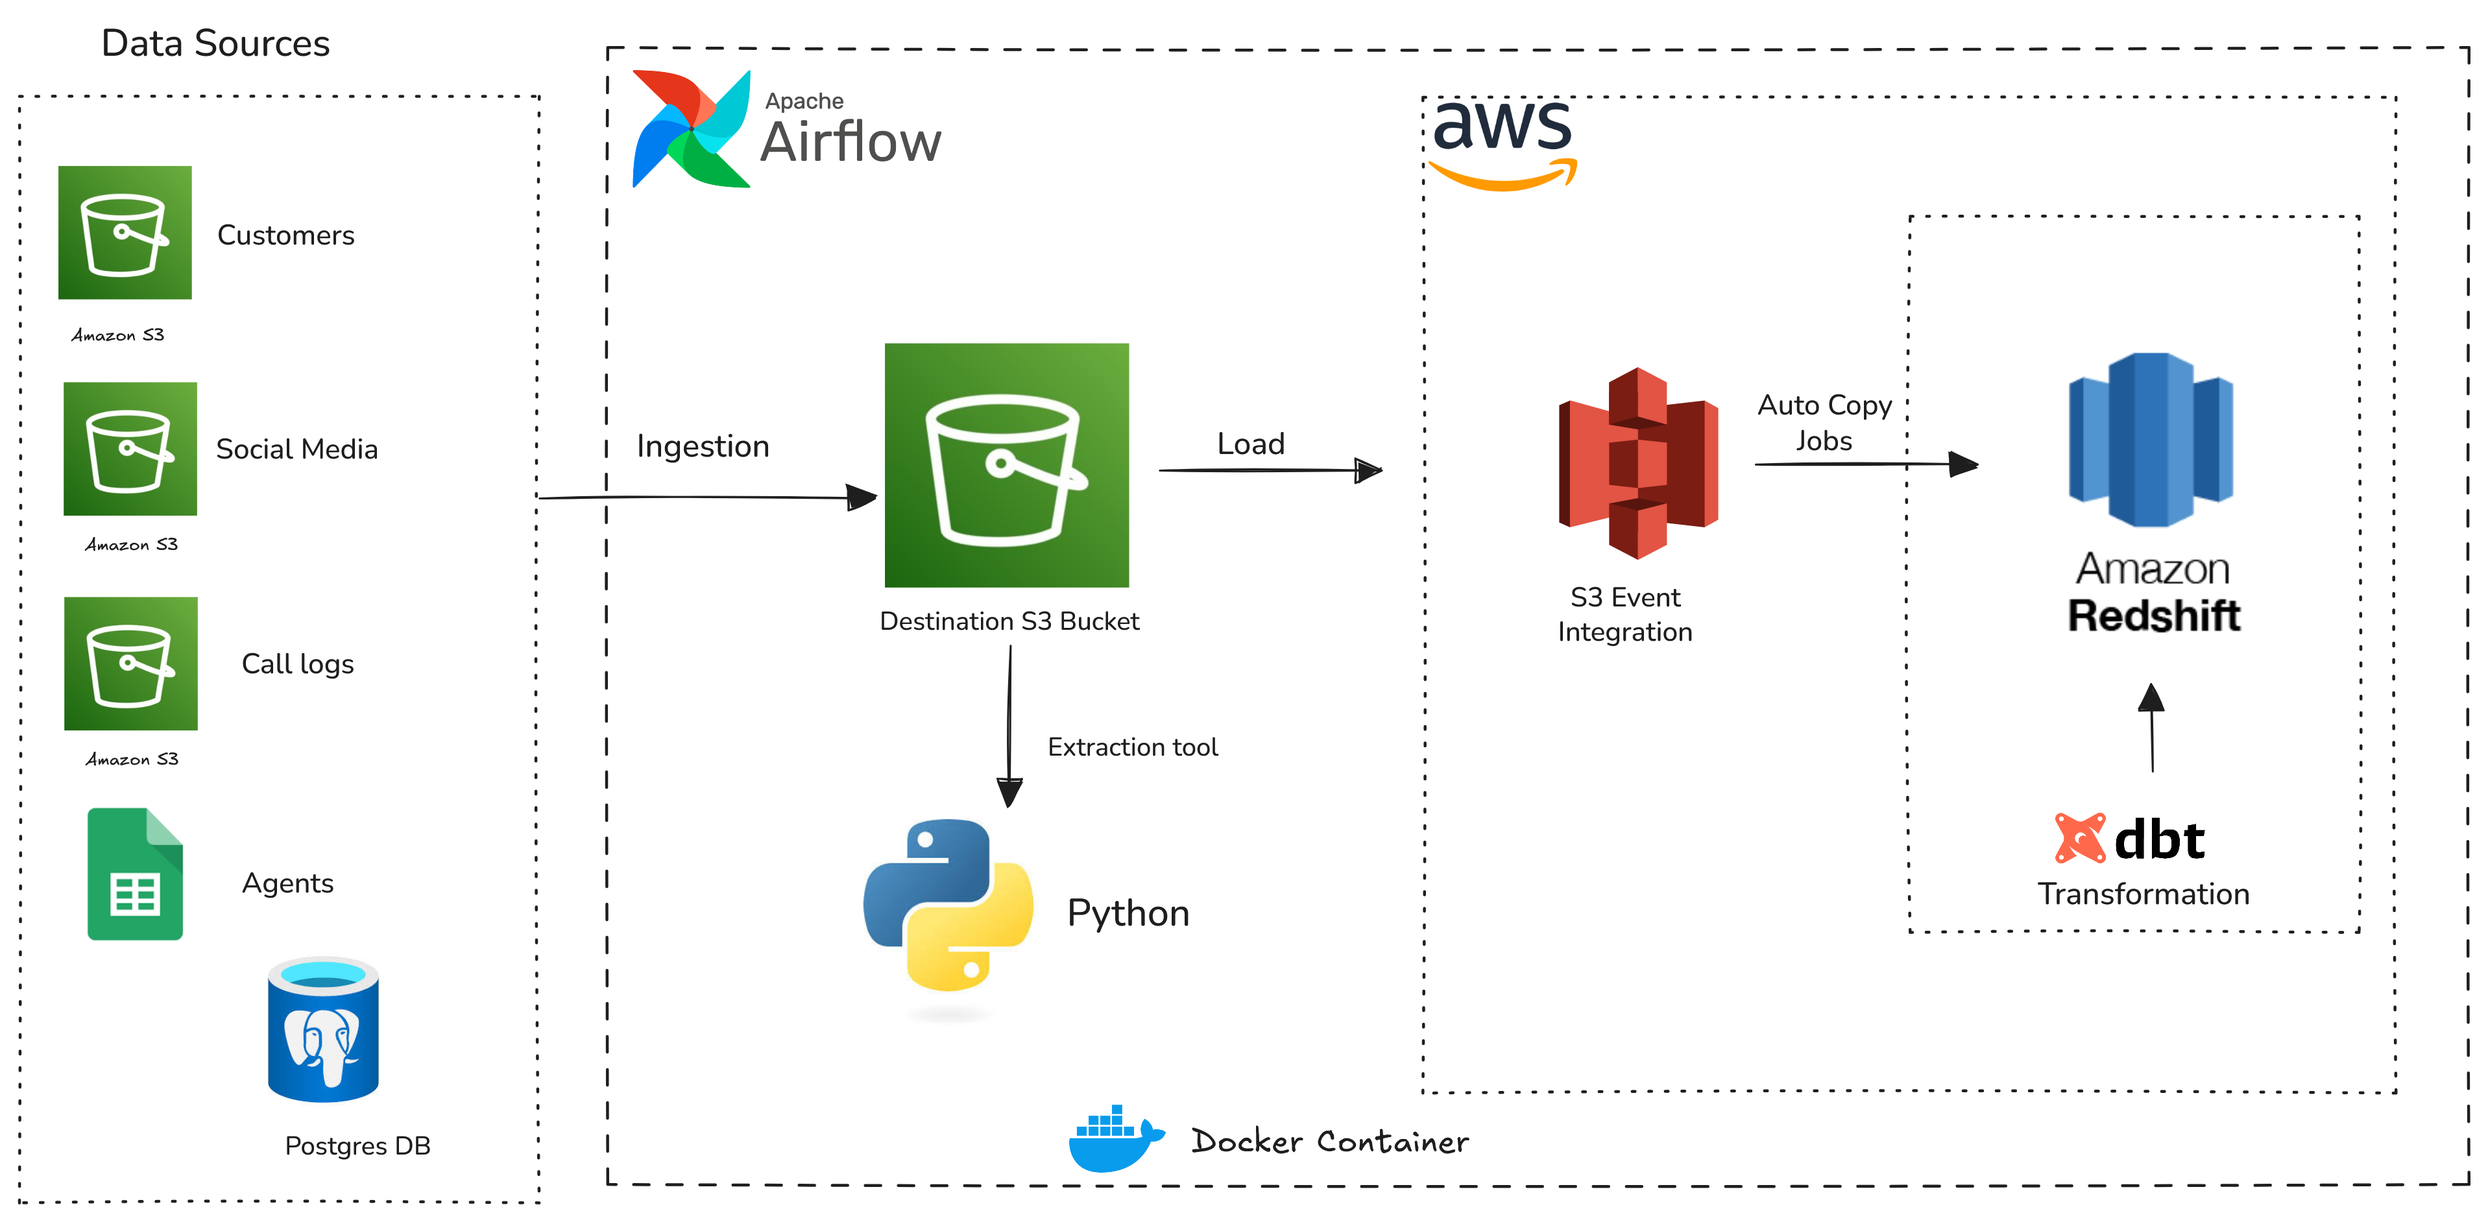
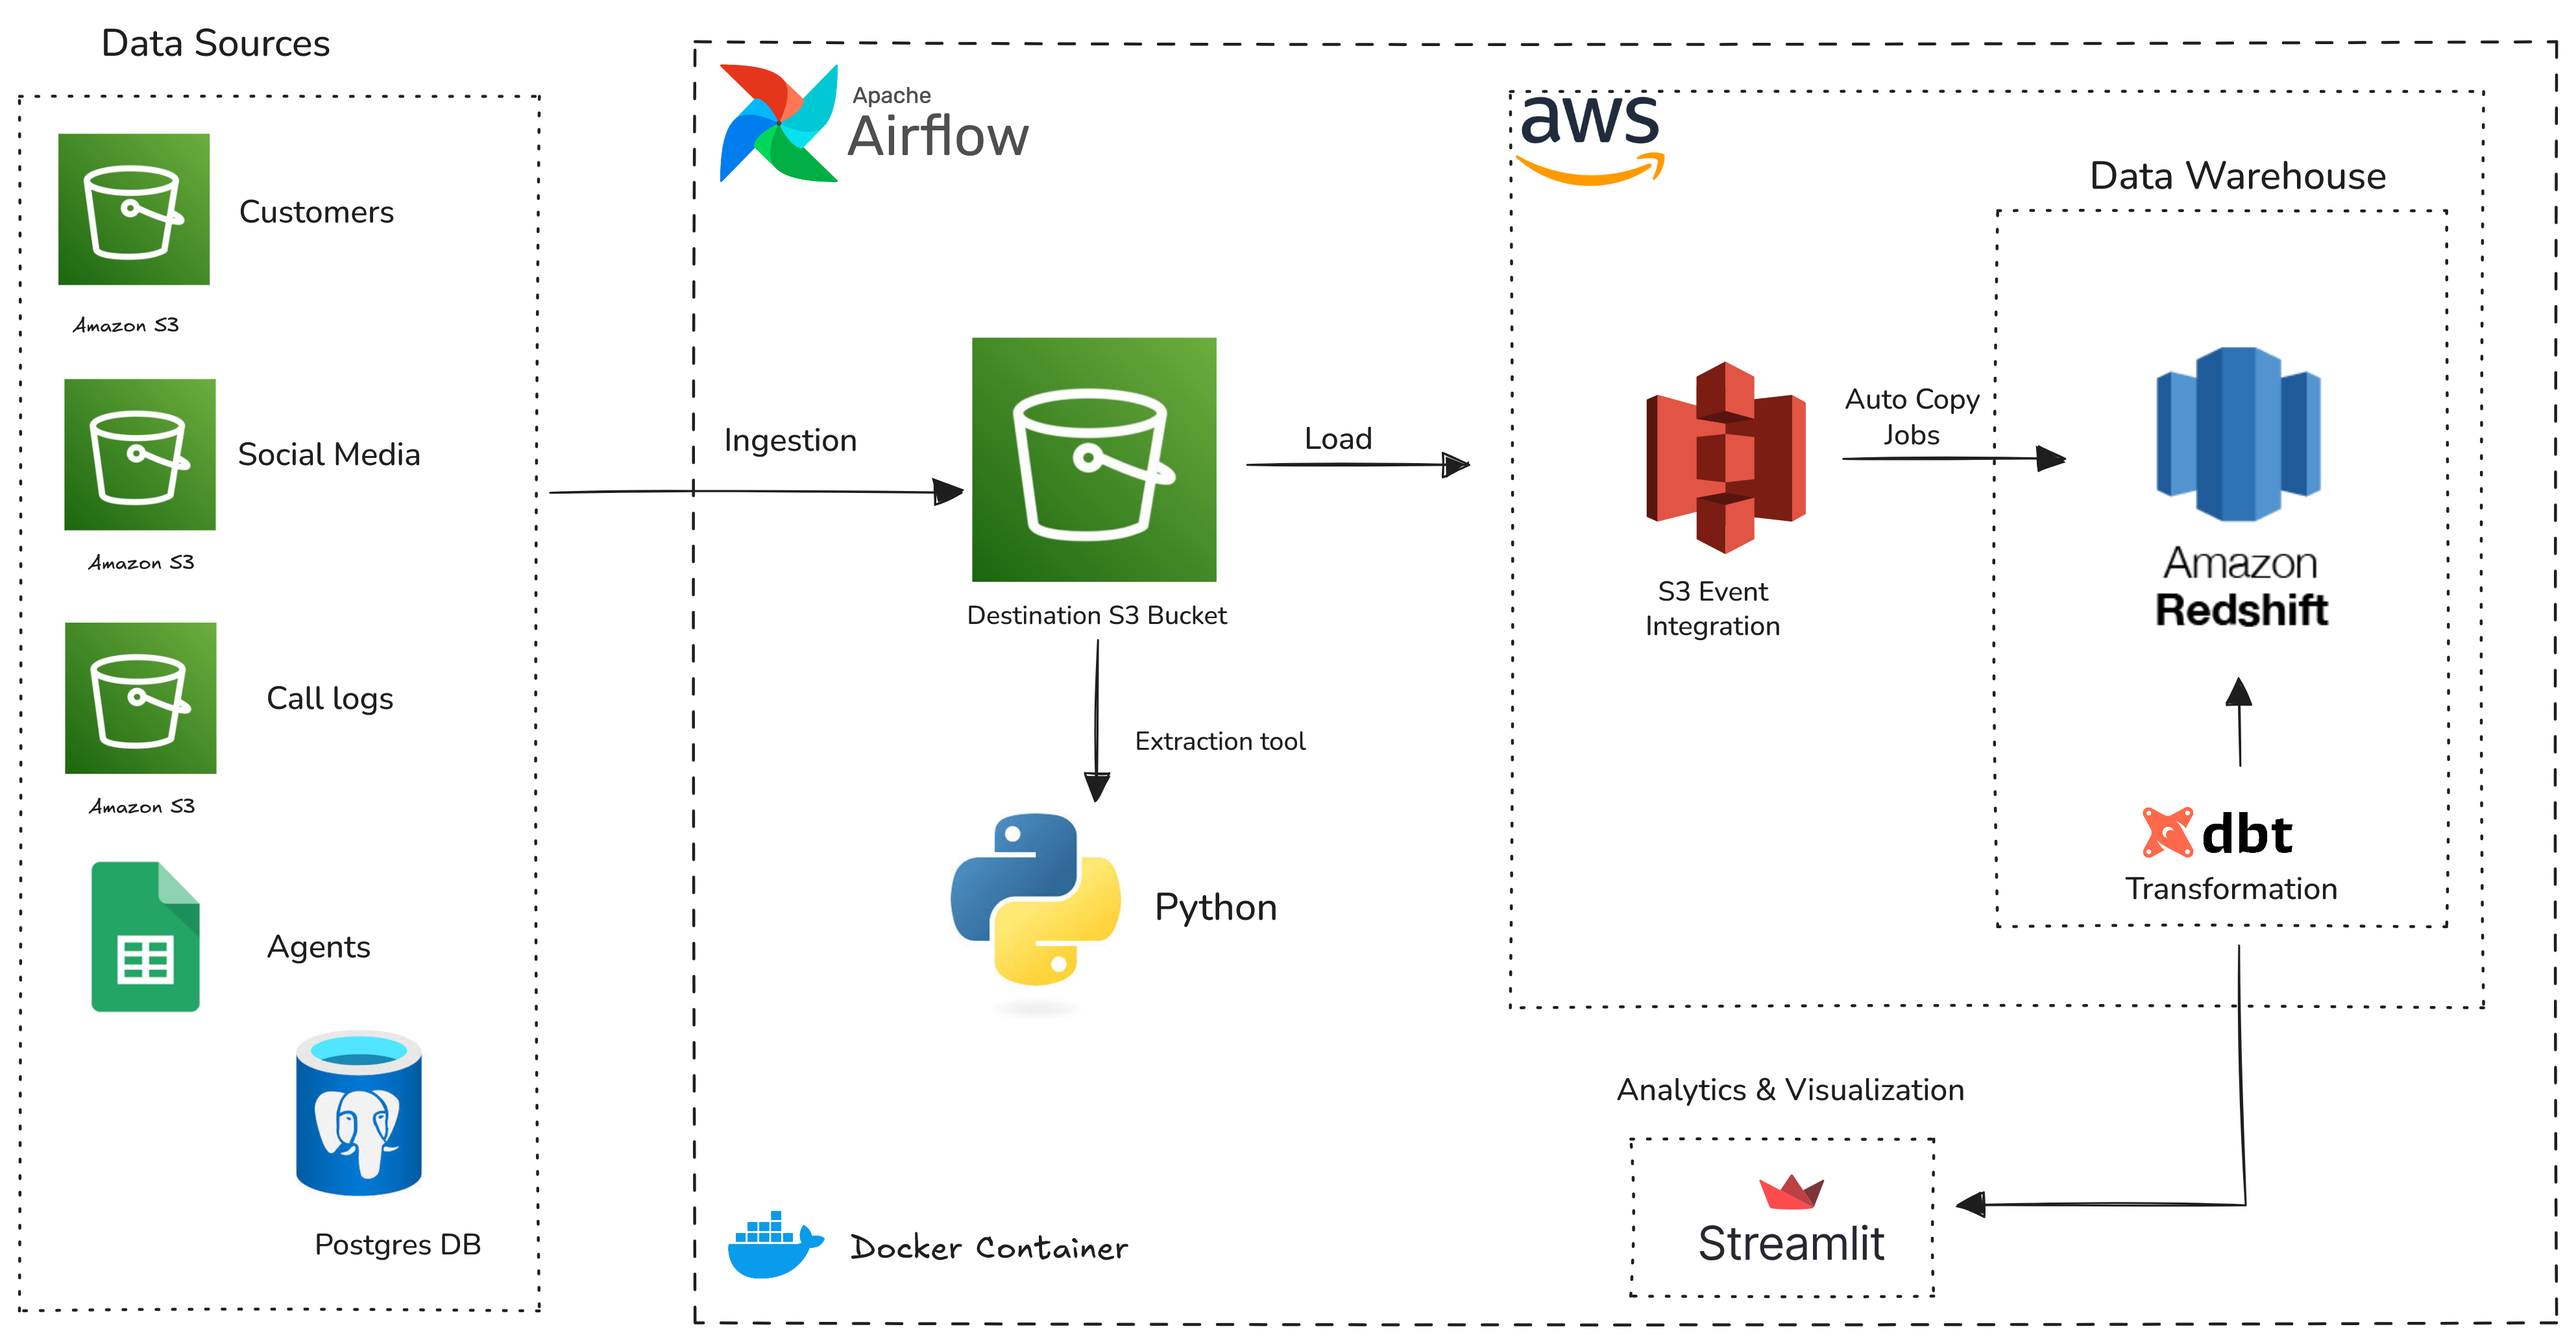
Updated Readme

diff --git a/README.md b/README.md
@@ -18,6 +18,9 @@ This project involves the design and implementation of a data platform for Coret
 - `Dockerfile`: Docker configuration for the custom image.
 - `requirements.txt`: Python dependencies for the project.
 - `Docker-compose.yml`: Docker Compose configuration for local development and testing.
+- `.github/workflows/`: GitHub Actions workflows for CI/CD.
+   - `.github/workflows/ci.yml`: CI workflow that carries out checks on code linting to ensure code written follows best practices.
+   - `.github/workflows/cd.yml`: CD workflow for deploying the project to Docker Hub.
 
 ## Architecture Diagram
 
@@ -53,6 +56,17 @@ To set up and run the Coretelecom Unified Customer Experience Data Platform, fol
       ```
    - Install Streamlit if not already installed: `pip install streamlit`.
    - Run the command: `streamlit run main.py`.
+8. **CI/CD**: The project includes GitHub Actions workflows for continuous integration and deployment. Ensure that your code passes the CI checks before merging changes.
+
+
+All the codes have also been packaged into a custom Docker image available on Docker Hub. Pull the image using the following command:
+
+```docker pull olalekanrasaq/my-cde-capstone-pipeline:latest
+```
+And then run the pipeline with:
+
+```docker run -d olalekanrasaq/my-cde-capstone-pipeline:latest
+```
 
 ## Choice of Tools and Technologies
 
@@ -64,6 +78,8 @@ To set up and run the Coretelecom Unified Customer Experience Data Platform, fol
 - **Terraform**: Employed for Infrastructure as Code (IaC) to provision and manage AWS resources.
 - **Docker**: Used for containerizing the application and ensuring consistent environments across development and production.
 - **Python**: The primary programming language for writing data ingestion scripts, Airflow DAGs, and the Streamlit application.
+- **Streamlit**: Selected for building an interactive web application for data visualization and analysis.
+- **Github Actions**: Used for implementing CI/CD pipelines to automate testing and deployment processes.
 
 ## Key Features
 
@@ -79,6 +95,7 @@ To set up and run the Coretelecom Unified Customer Experience Data Platform, fol
 - **Custom Docker Image**: Creation of a custom Docker image to encapsulate all codes, dependencies, and configurations required for the data platform.
 - **Infrastructure as Code**: Use of Terraform to manage and provision AWS resources, ensuring reproducibility and version control of infrastructure.
 - **Streamlit Application**: Development of a Streamlit application for data visualization and analysis, providing an interactive interface for stakeholders to explore the data.
+- **CI/CD Pipelines**: Implementation of CI/CD pipelines using GitHub Actions to automate testing and deployment processes.
 
 ## Further Work
 
